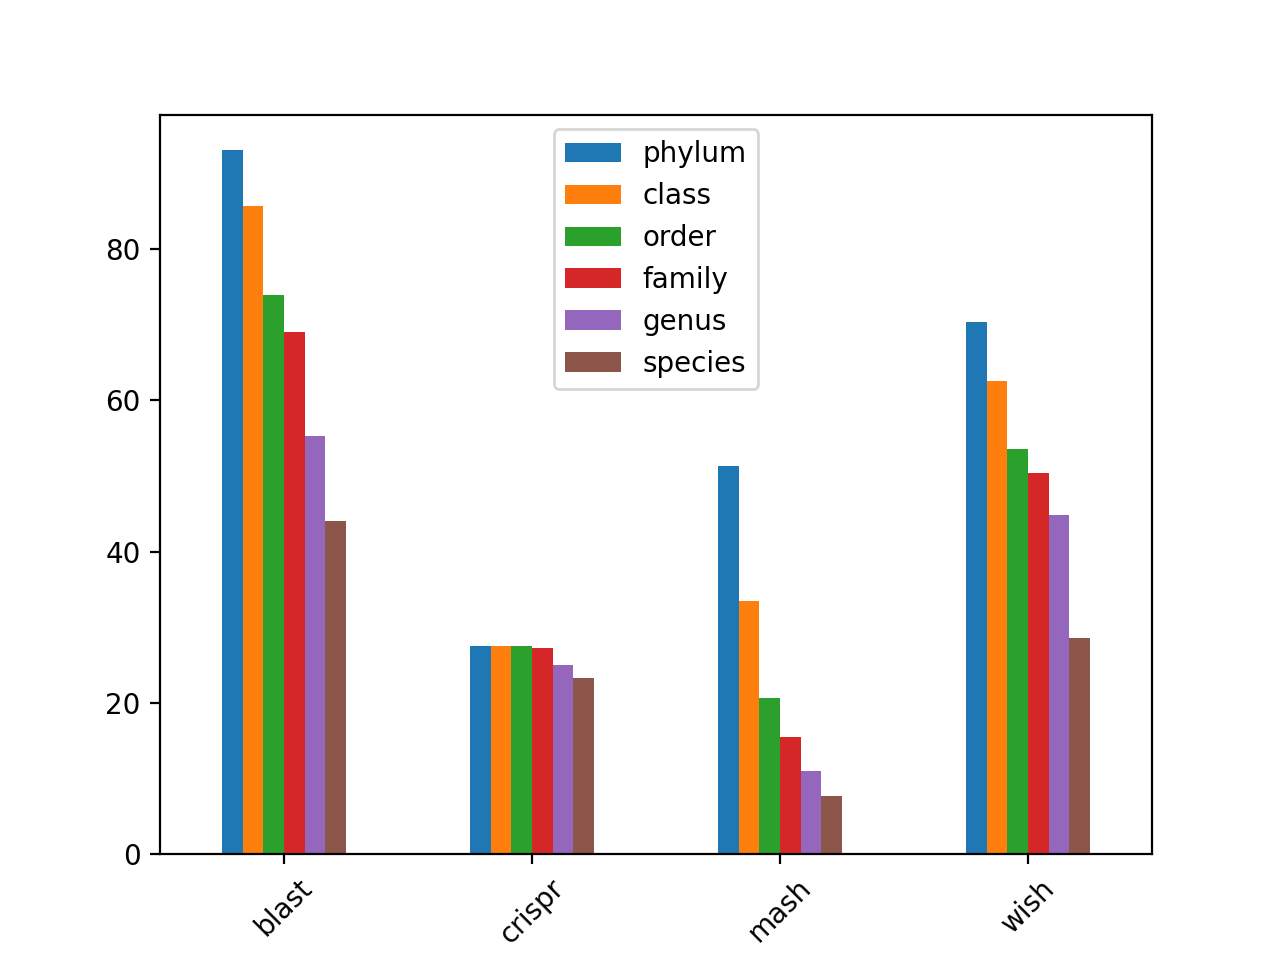
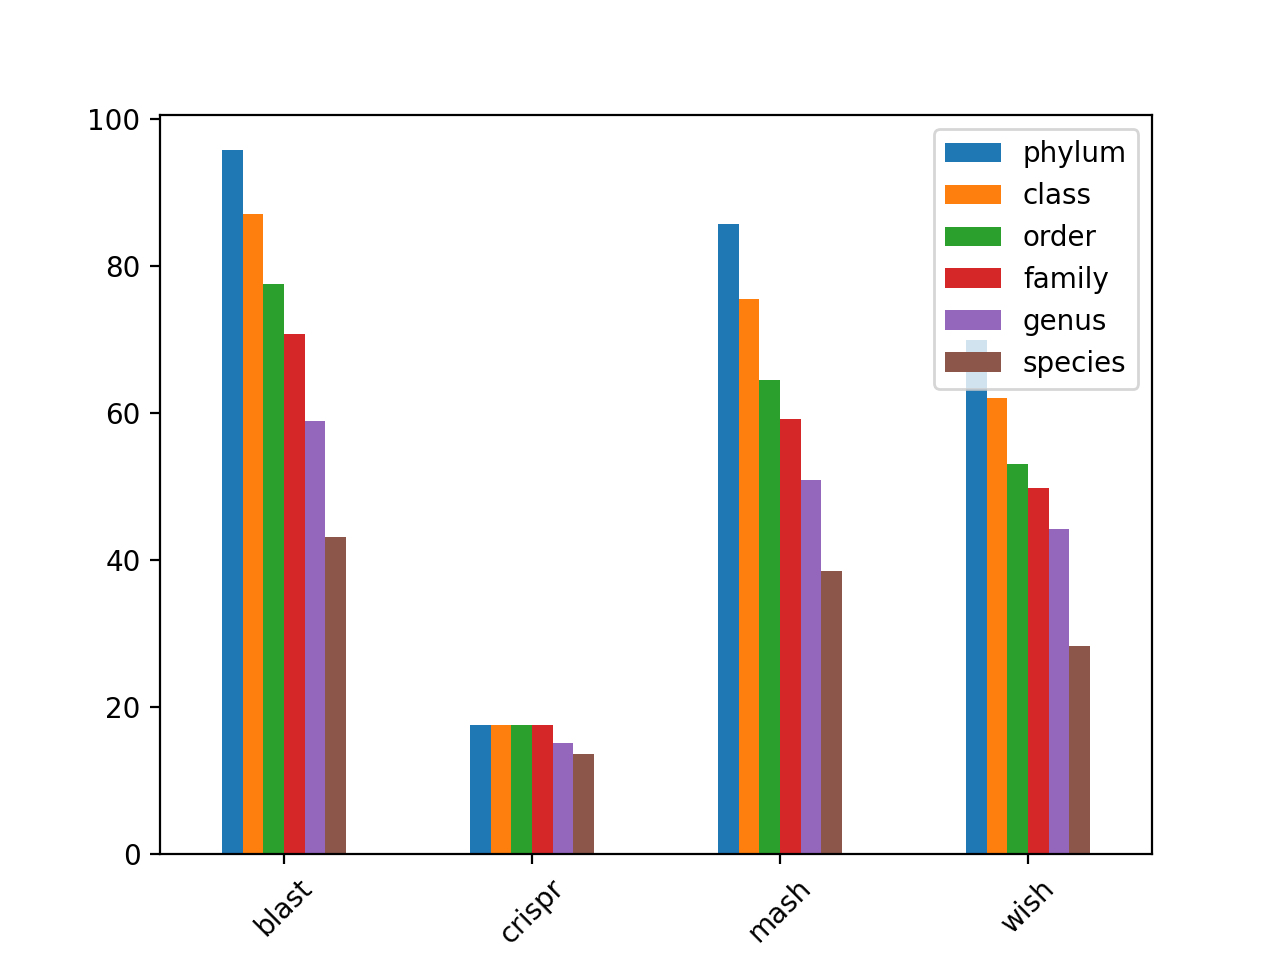
fix last

diff --git a/predictions/stats_taxonomy.py b/predictions/stats_taxonomy.py
@@ -68,29 +68,38 @@ def main():
                 df = frame[frame["Virus"] == vir]
                 vir_record = d_vir[vir]
 
-                for hst in df["Host"]:
-                    host_record = d_host[hst]
+                species = set([d_host[hst]["lineage_names"][-1] for hst in df["Host"]])
+                genus = set([d_host[hst]["lineage_names"][-2] for hst in df["Host"]])
+                family = set([d_host[hst]["lineage_names"][-3] for hst in df["Host"]])
+                order = set([d_host[hst]["lineage_names"][-4] for hst in df["Host"]])
+                clas = set([d_host[hst]["lineage_names"][-5] for hst in df["Host"]])
+                phylum = set([d_host[hst]["lineage_names"][-6] for hst in df["Host"]])                
 
-                    species = host_record["lineage_names"][-1] == vir_record["host"]["lineage_names"][-1]
-                    genus = host_record["lineage_names"][-2] == vir_record["host"]["lineage_names"][-2]
-                    family = host_record["lineage_names"][-3] == vir_record["host"]["lineage_names"][-3]
-                    order = host_record["lineage_names"][-4] == vir_record["host"]["lineage_names"][-4]
-                    clas = host_record["lineage_names"][-5] == vir_record["host"]["lineage_names"][-5]
-                    phylum = host_record["lineage_names"][-6] == vir_record["host"]["lineage_names"][-6]
+                counts[frame.name]["species"].append(vir_record["host"]["lineage_names"][-1] in species)
+                counts[frame.name]["genus"].append(vir_record["host"]["lineage_names"][-2] in genus)
+                counts[frame.name]["family"].append(vir_record["host"]["lineage_names"][-3] in family)
+                counts[frame.name]["order"].append(vir_record["host"]["lineage_names"][-4] in order)
+                counts[frame.name]["class"].append(vir_record["host"]["lineage_names"][-5] in clas)
+                counts[frame.name]["phylum"].append(vir_record["host"]["lineage_names"][-6] in phylum)
 
-                    counts[frame.name]["species"].append(species)
-                    counts[frame.name]["genus"].append(genus)
-                    counts[frame.name]["family"].append(family)
-                    counts[frame.name]["order"].append(order)
-                    counts[frame.name]["class"].append(clas)
-                    counts[frame.name]["phylum"].append(phylum)
+                # for hst in df["Host"]:
+                #     host_record = d_host[hst]
+
+                #     species = host_record["lineage_names"][-1] == vir_record["host"]["lineage_names"][-1]
+                #     genus = host_record["lineage_names"][-2] == vir_record["host"]["lineage_names"][-2]
+                #     family = host_record["lineage_names"][-3] == vir_record["host"]["lineage_names"][-3]
+                #     order = host_record["lineage_names"][-4] == vir_record["host"]["lineage_names"][-4]
+                #     clas = host_record["lineage_names"][-5] == vir_record["host"]["lineage_names"][-5]
+                #     phylum = host_record["lineage_names"][-6] == vir_record["host"]["lineage_names"][-6]
+
+
 
     counts = {frame: {tax: sum(counts[frame][tax]) / len(counts[frame][tax]) * 100 for tax in taxonomy} for frame in counts.keys()}
     
     # for k in counts.keys():
     #     for tax in counts[k].keys():
     #         print(k, tax, f"{sum(counts[k][tax]) / len(counts[k][tax]) * 100 :.2f}")
-
+    #         print(len(counts[k][tax]))
 
     # with open("taxonomy_predictions_2.json", "w+") as fh:
     #     json.dump(counts, fh)
